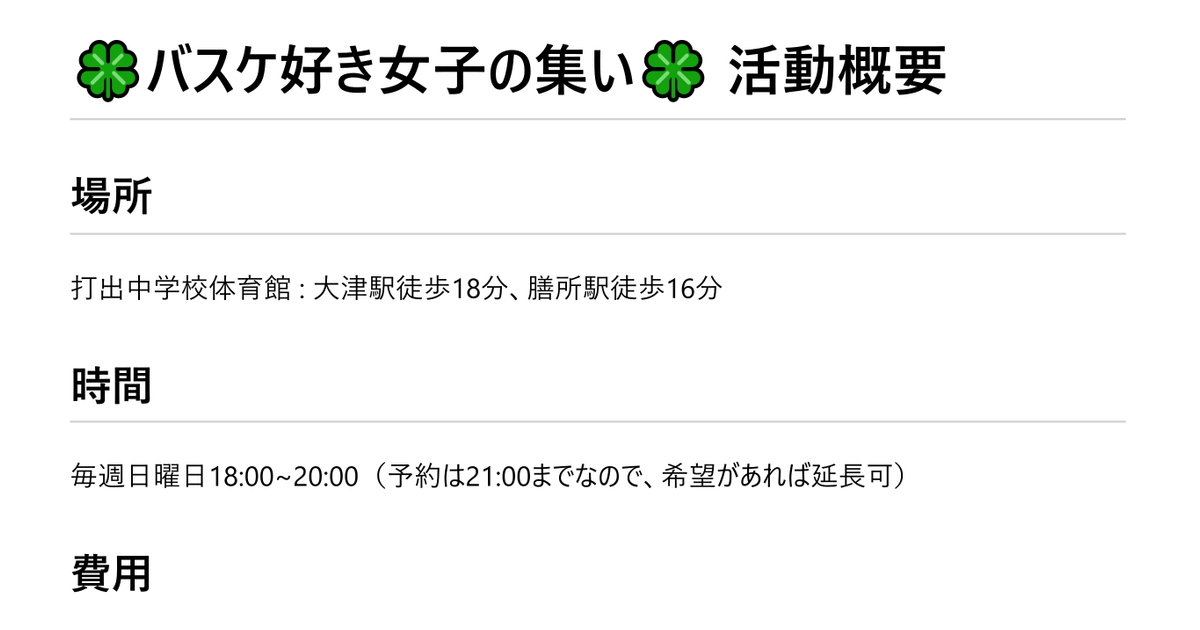
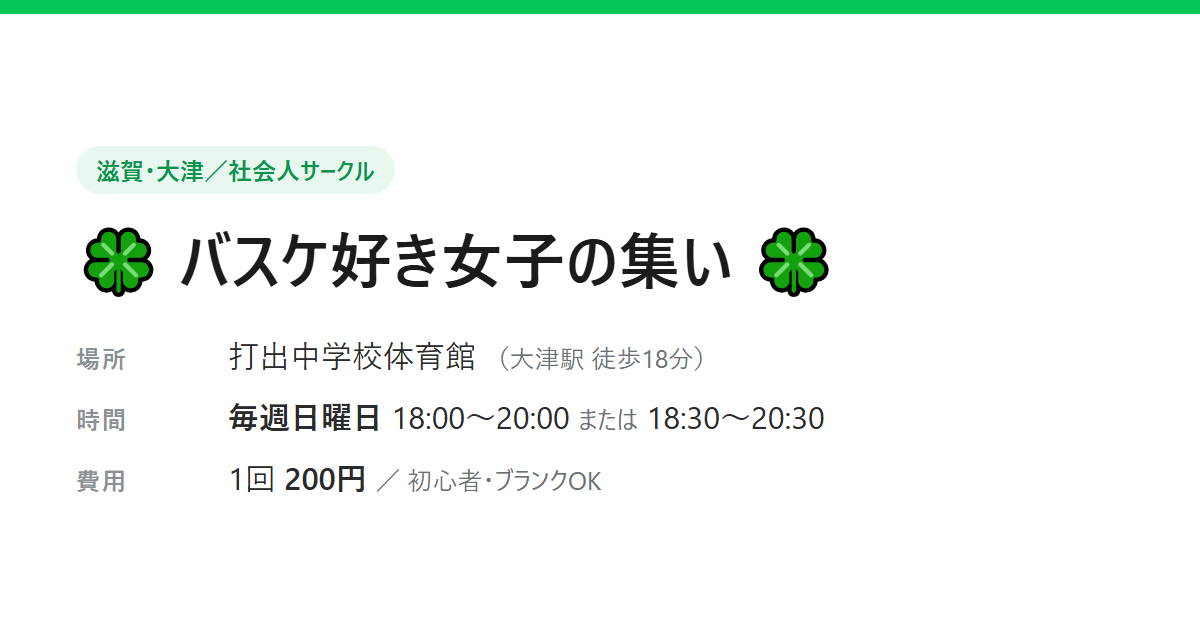
時間を 18:00〜20:00／18:30〜20:30 の2パターンに修正
本文とmeta descriptionを更新。OGP画像はPDFの切り出しで旧時間が焼き込まれて
いたため、正しい時間を入れたカードを生成して差し替え。

diff --git a/index.html b/index.html
@@ -4,10 +4,10 @@
 <meta charset="utf-8">
 <meta name="viewport" content="width=device-width, initial-scale=1">
 <title>🍀バスケ好き女子の集い🍀 活動概要</title>
-<meta name="description" content="滋賀・大津の社会人バスケサークル。毎週日曜18:00〜20:00、打出中学校体育館。1回200円、初心者・ブランクOK。">
+<meta name="description" content="滋賀・大津の社会人バスケサークル。毎週日曜18:00〜20:00または18:30〜20:30、打出中学校体育館。1回200円、初心者・ブランクOK。">
 <meta property="og:type" content="website">
 <meta property="og:title" content="🍀バスケ好き女子の集い🍀 活動概要">
-<meta property="og:description" content="滋賀・大津の社会人バスケサークル。毎週日曜18:00〜20:00、打出中学校体育館。1回200円、初心者・ブランクOK。">
+<meta property="og:description" content="滋賀・大津の社会人バスケサークル。毎週日曜18:00〜20:00または18:30〜20:30、打出中学校体育館。1回200円、初心者・ブランクOK。">
 <meta property="og:url" content="https://basket-circle.github.io/">
 <meta property="og:image" content="https://basket-circle.github.io/img/og.png">
 <meta name="twitter:card" content="summary_large_image">
@@ -20,6 +20,7 @@
  .card{background:#fff;border-radius:12px;padding:14px 16px;margin:0 0 12px;box-shadow:0 1px 4px rgba(0,0,0,.08);}
  h2{font-size:15px;margin:0 0 8px;color:#06c755;display:flex;align-items:center;gap:6px;}
  .big{font-size:17px;font-weight:bold;}
+ .times{font-size:17px;font-weight:bold;margin-top:2px;}
  .sub{color:#666;font-size:13px;margin-top:2px;}
  ul{margin:8px 0 0;padding-left:1.2em;}
  li{margin-bottom:6px;font-size:14px;}
@@ -52,7 +53,9 @@
 
  <div class="card">
   <h2>🕕 時間</h2>
-  <div class="big">毎週日曜日 18:00〜20:00</div>
+  <div class="big">毎週日曜日</div>
+  <div class="times">18:00〜20:00　または　18:30〜20:30</div>
+  <div class="sub">開始時間は回によって変わります。その回の時間は、前日のお知らせでご案内します。</div>
   <div class="sub">予約は21:00までなので、希望があれば延長できます</div>
  </div>
 
